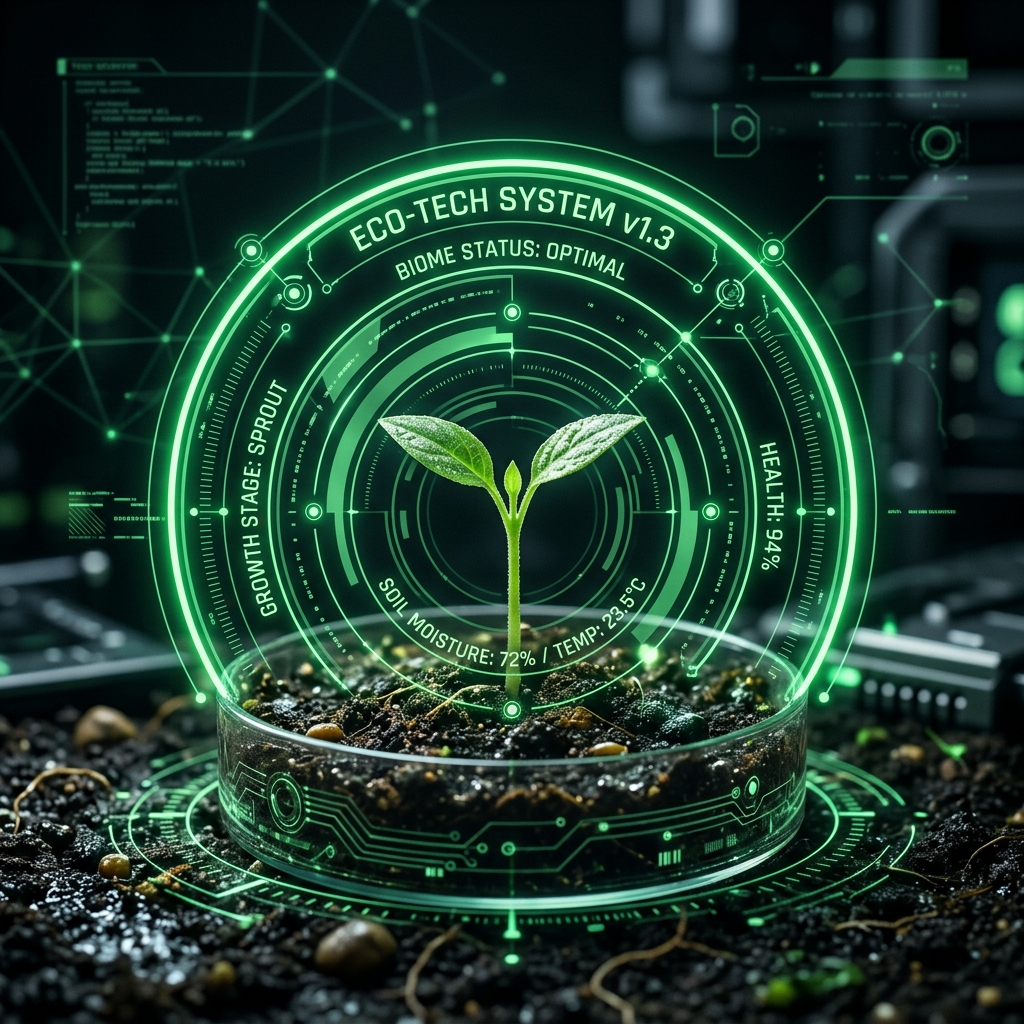
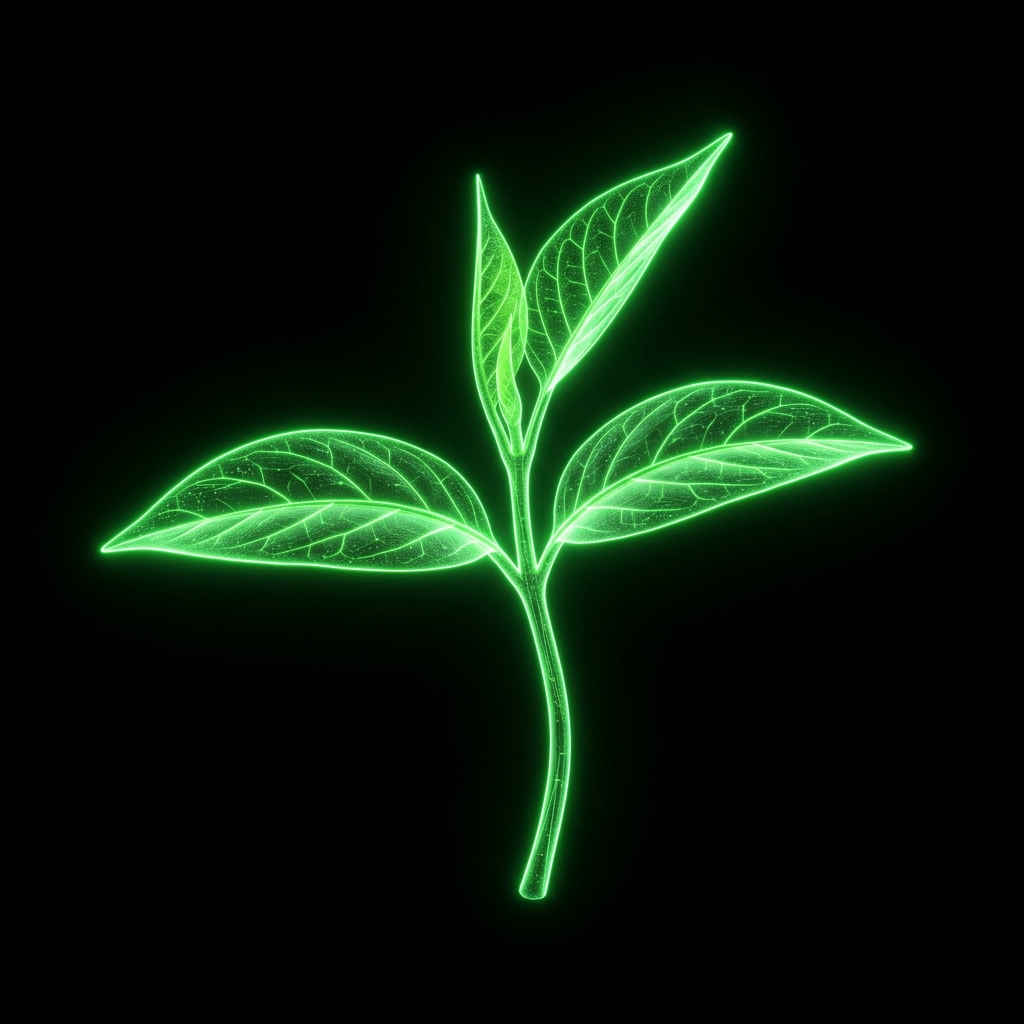
feat: replace plant hologram with clean isolated sprout asset and scale up

diff --git a/frontend/src/components/ui/HologramPlant.tsx b/frontend/src/components/ui/HologramPlant.tsx
@@ -5,41 +5,42 @@ import HologramParticles from "./HologramParticles";
 
 export default function HologramPlant() {
   return (
-    <div className="relative w-full max-w-[280px] aspect-square flex items-center justify-center mx-auto">
-      {/* Outer rotating HUD ring */}
+    <div className="relative w-full max-w-[320px] aspect-square flex items-center justify-center mx-auto">
+      {/* Outer rotating HUD ring (very subtle) */}
       <motion.div
-        className="absolute w-full h-full rounded-full border border-dashed border-[var(--color-primary)]/10 pointer-events-none"
+        className="absolute w-full h-full rounded-full border border-dashed border-[var(--color-primary)]/5 pointer-events-none"
         animate={{ rotate: -360 }}
         transition={{ duration: 35, repeat: Infinity, ease: "linear" }}
       />
       
-      {/* Inner scanning ring */}
+      {/* Inner scanning ring (very subtle) */}
       <motion.div
-        className="absolute w-[85%] h-[85%] rounded-full border border-dotted border-[var(--color-primary)]/15 pointer-events-none"
+        className="absolute w-[85%] h-[85%] rounded-full border border-dotted border-[var(--color-primary)]/5 pointer-events-none"
         animate={{ rotate: 300 }}
         transition={{ duration: 22, repeat: Infinity, ease: "linear" }}
       />
 
       {/* Floating container */}
       <motion.div
-        className="relative z-20 w-[90%] h-[90%] flex items-center justify-center"
+        className="relative z-20 w-full h-full flex items-center justify-center" // Scale to full size (100%)
         animate={{ y: [8, -8, 8] }} // Offset float timing from the map
         transition={{ duration: 8, repeat: Infinity, ease: "easeInOut" }}
       >
         {/* Radial green glow behind plant */}
-        <div className="absolute w-[70%] h-[70%] rounded-full bg-[var(--color-primary)]/10 blur-3xl pointer-events-none" />
+        <div className="absolute w-[70%] h-[70%] rounded-full bg-[var(--color-primary)]/5 blur-3xl pointer-events-none" />
         
         {/* Hologram plant image */}
         <img
           src="/images/hologram_plant.png"
           alt="Hologram Plant Sprout"
-          className="w-full h-full object-contain mix-blend-screen filter drop-shadow-[0_0_20px_rgba(0,255,136,0.4)] select-none pointer-events-none"
+          className="w-[90%] h-[90%] object-contain mix-blend-screen filter drop-shadow-[0_0_25px_rgba(0,255,136,0.5)] select-none pointer-events-none"
         />
       </motion.div>
 
       {/* Floating blue dot particles */}
-      <HologramParticles count={14} />
+      <HologramParticles count={12} />
     </div>
   );
 }
+
 
